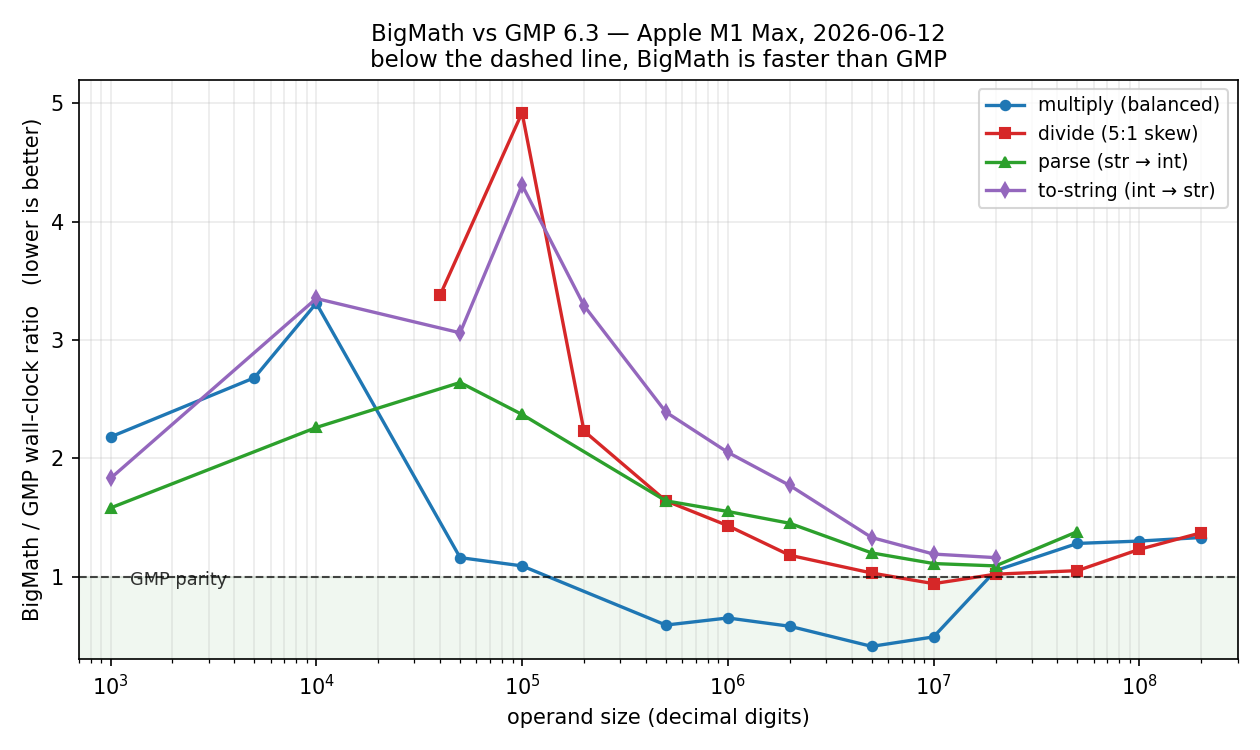
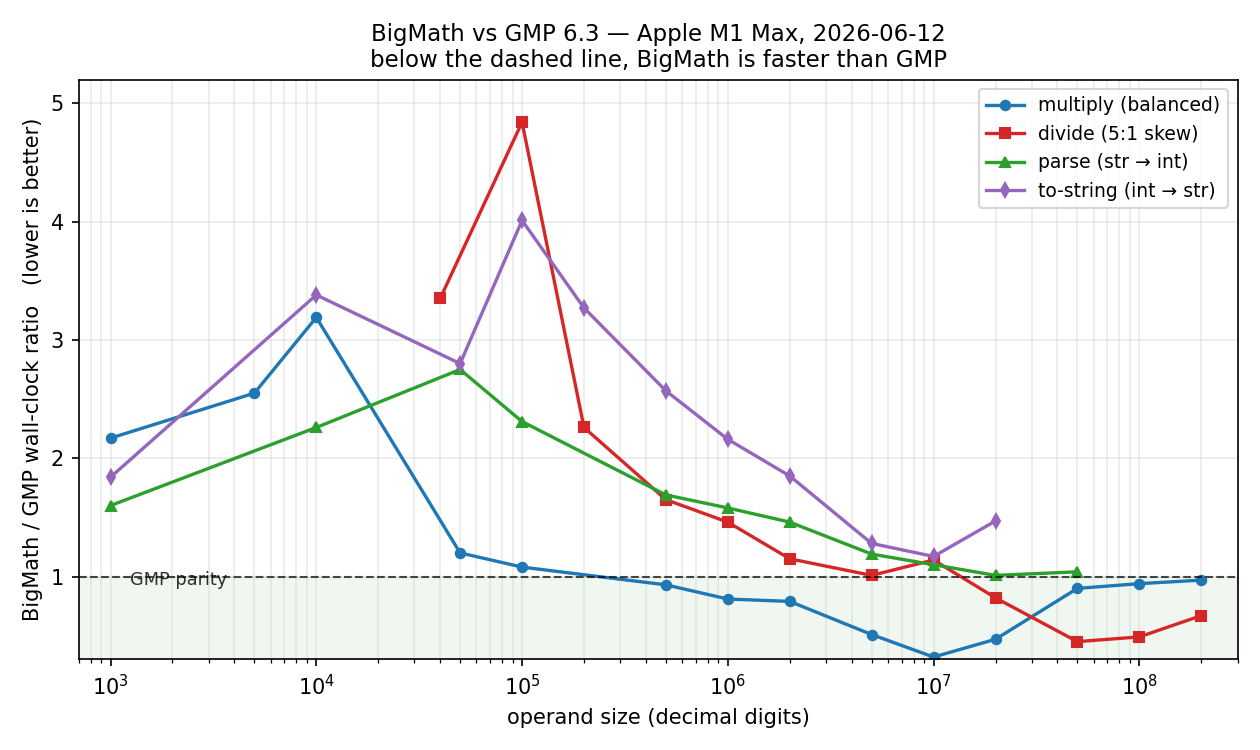
docs: regenerate README/BENCHMARK performance figures post #107-#114
The ratio plot and session-progress chart were generated from the
morning (pre-#107) tables. Data refreshed to the evening canonical run
(50M-200M mul and 5M/10M ToString rows use warm steady-state ratios per
the BENCHMARK.md methodology notes); progress chart now spans both
2026-06 runs (#82-#99 + #107-#114) with the XL rows that moved most:
mul 100M 1.80 -> 0.94, div 100M/20M 2.85 -> 0.49, parse 20M -> parity.

diff --git a/docs/images/make_benchmark_plots.py b/docs/images/make_benchmark_plots.py
@@ -1,9 +1,10 @@
 #!/usr/bin/env python3
 """Generate the BENCHMARK.md / README.md performance figures.
 
-Data: 2026-06-12 full refresh + post-PR-#103 XL rows (M1 Max, paired same-run BigMath vs GMP 6.3,
-quiet machine). Regenerate by rerunning the refresh harness and updating the
-tables below, then: python3 docs/images/make_benchmark_plots.py
+Data: 2026-06-12 evening canonical run, post PR #107-#114 (M1 Max, paired same-run
+BigMath vs GMP 6.3, quiet machine; 50M-200M mul rows use warm steady-state ratios,
+see BENCHMARK.md methodology notes). Regenerate by rerunning bench_vs_gmp and
+updating the tables below, then: python3 docs/images/make_benchmark_plots.py
 """
 import matplotlib
 
@@ -12,34 +13,34 @@ import matplotlib.pyplot as plt
 
 # digits -> BigMath/GMP wall-clock ratio (lower is better; < 1 = BigMath faster)
 MUL_BAL = {
-    1e3: 2.18, 5e3: 2.68, 1e4: 3.31, 5e4: 1.16, 1e5: 1.09, 5e5: 0.59,
-    1e6: 0.65, 2e6: 0.58, 5e6: 0.41, 1e7: 0.49, 2e7: 1.05,
-    5e7: 1.28, 1e8: 1.30, 2e8: 1.33,
+    1e3: 2.17, 5e3: 2.55, 1e4: 3.19, 5e4: 1.20, 1e5: 1.08, 5e5: 0.93,
+    1e6: 0.81, 2e6: 0.79, 5e6: 0.51, 1e7: 0.32, 2e7: 0.47,
+    5e7: 0.90, 1e8: 0.94, 2e8: 0.97,  # 50M+ warm steady-state
 }
 DIV_SKEW = {  # a = 5b shapes, keyed by dividend digits
-    4e4: 3.38, 1e5: 4.92, 2e5: 2.23, 5e5: 1.64, 1e6: 1.43, 2e6: 1.18,
-    5e6: 1.03, 1e7: 0.94, 2e7: 1.02, 5e7: 1.05, 1e8: 1.23, 2e8: 1.37,
+    4e4: 3.35, 1e5: 4.84, 2e5: 2.26, 5e5: 1.65, 1e6: 1.46, 2e6: 1.15,
+    5e6: 1.01, 1e7: 1.14, 2e7: 0.82, 5e7: 0.45, 1e8: 0.49, 2e8: 0.67,
 }
 PARSE = {
-    1e3: 1.58, 1e4: 2.26, 5e4: 2.64, 1e5: 2.37, 5e5: 1.64, 1e6: 1.55,
-    2e6: 1.45, 5e6: 1.20, 1e7: 1.11, 2e7: 1.09, 5e7: 1.38,
+    1e3: 1.60, 1e4: 2.26, 5e4: 2.75, 1e5: 2.31, 5e5: 1.69, 1e6: 1.58,
+    2e6: 1.46, 5e6: 1.19, 1e7: 1.10, 2e7: 1.01, 5e7: 1.04,
 }
 TOSTR = {
-    1e3: 1.83, 1e4: 3.35, 5e4: 3.06, 1e5: 4.31, 2e5: 3.29, 5e5: 2.39,
-    1e6: 2.05, 2e6: 1.77, 5e6: 1.33, 1e7: 1.19, 2e7: 1.16,
+    1e3: 1.84, 1e4: 3.38, 5e4: 2.80, 1e5: 4.01, 2e5: 3.27, 5e5: 2.57,
+    1e6: 2.16, 2e6: 1.85, 5e6: 1.28, 1e7: 1.17, 2e7: 1.47,  # 5M/10M warm
 }
 
-# Session progress: BigMath/GMP ratio at the start of the 2026-06-11 session
-# (2026-05-30 baseline tables) vs after PRs #82-#99.
+# Session progress: BigMath/GMP ratio at the 2026-05-30 baseline vs after the
+# two 2026-06 runs (PRs #82-#99, then #107-#114).
 BEFORE_AFTER = [
-    ("mul 1M×1M", 1.15, 0.65),
-    ("mul 5M×5M", 0.75, 0.41),
-    ("div 1M×200k", 3.36, 1.43),
-    ("div 5M×1M", 2.87, 1.03),
-    ("div 10M×2M", 2.79, 0.94),
-    ("tostr 1M", 4.48, 2.05),
-    ("tostr 20M", 2.52, 1.16),
-    ("parse 1M", 2.33, 1.55),
+    ("mul 1M×1M", 1.15, 0.81),
+    ("mul 10M×10M", 1.05, 0.32),
+    ("mul 100M×100M", 1.80, 0.94),
+    ("div 1M×200k", 3.36, 1.46),
+    ("div 10M×2M", 2.79, 1.14),
+    ("div 100M×20M", 2.85, 0.49),
+    ("tostr 1M", 4.48, 2.16),
+    ("parse 20M", 2.33, 1.01),
 ]
 
 
@@ -82,13 +83,13 @@ def progress_plot(path):
     w = 0.38
     ax.bar([i - w / 2 for i in x], before, w, label="2026-05-30 baseline",
            color="#bbbbbb")
-    ax.bar([i + w / 2 for i in x], after, w, label="after PRs #82–#99",
+    ax.bar([i + w / 2 for i in x], after, w, label="after PRs #82–#114",
            color="#1f77b4")
     ax.axhline(1.0, color="black", linewidth=1.0, linestyle="--", alpha=0.7)
     ax.set_xticks(list(x))
     ax.set_xticklabels(labels, rotation=20, ha="right", fontsize=9)
     ax.set_ylabel("BigMath / GMP ratio  (lower is better)")
-    ax.set_title("One optimization day: 2026-06-11 → 06-12 (PRs #82–#99)",
+    ax.set_title("The 2026-06 optimization runs: PRs #82–#99 + #107–#114",
                  fontsize=11)
     ax.grid(True, axis="y", alpha=0.25)
     ax.legend(fontsize=9)
